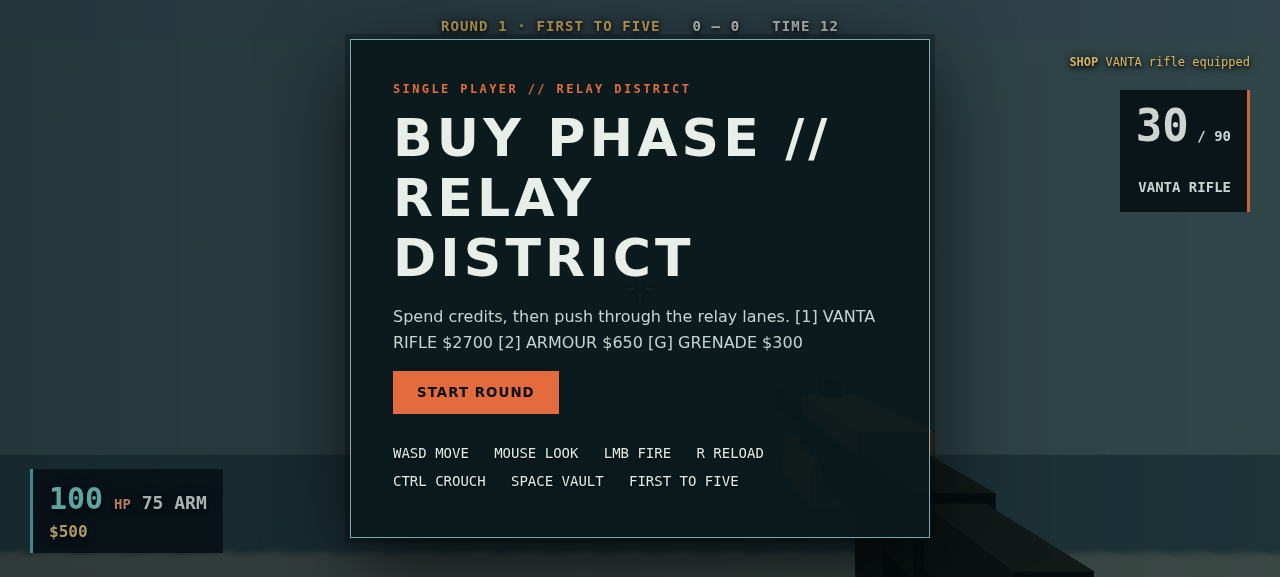
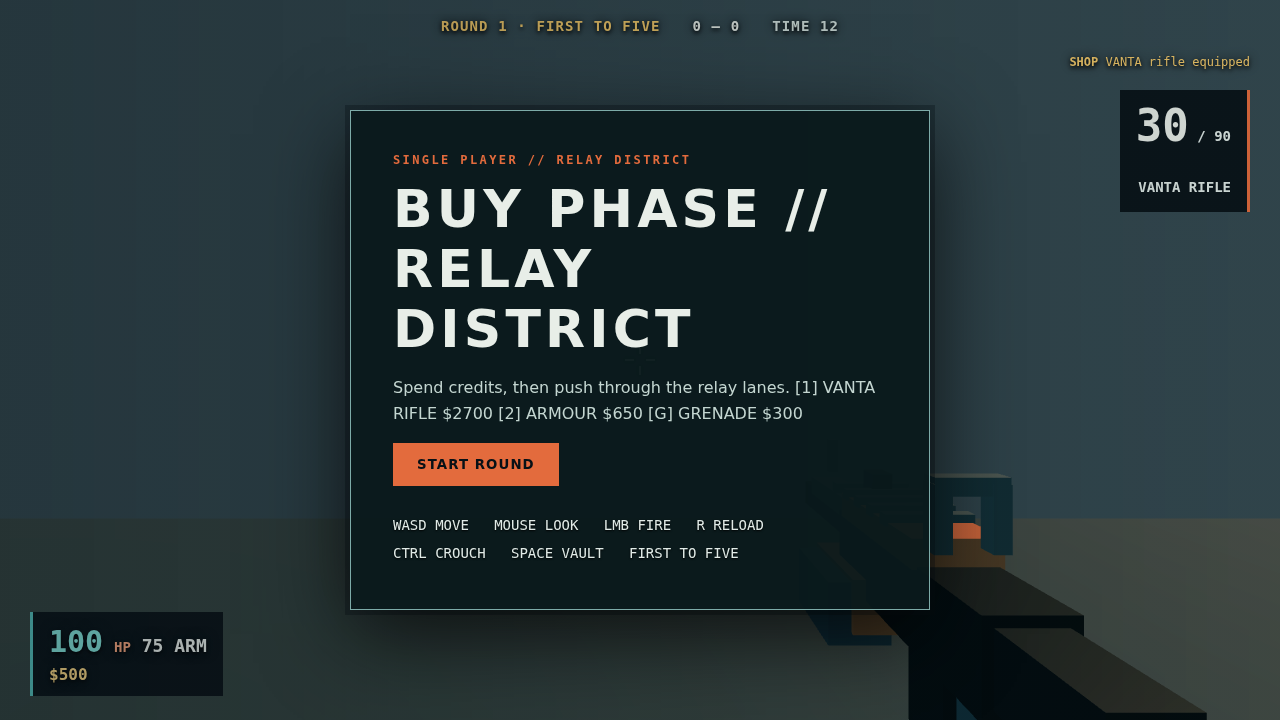
Rebuild EMBERLINE combat composition and submission screenshots
Open the relay lane, stage deterministic combat feedback, improve rival silhouettes and rifle detail, and lead the dossier with gameplay.

diff --git a/game/src/main.js b/game/src/main.js
@@ -13,13 +13,13 @@ import {createAudio} from './audio.js';
 const params=new URLSearchParams(location.search),shot=params.get('shot'),seed=Number(params.get('seed')||1);
 let rng=seed>>>0;const random=()=>{rng=(rng*1664525+1013904223)>>>0;return rng/4294967296;};
 const renderer=new THREE.WebGLRenderer({antialias:true});renderer.setPixelRatio(Math.min(devicePixelRatio,2));renderer.setSize(innerWidth,innerHeight);renderer.shadowMap.enabled=true;document.getElementById('game').appendChild(renderer.domElement);
-const scene=new THREE.Scene();scene.background=new THREE.Color(PALETTE.void);scene.fog=new THREE.Fog(PALETTE.void,18,40);
+const scene=new THREE.Scene();scene.background=new THREE.Color(PALETTE.void);scene.fog=new THREE.Fog(PALETTE.void,25,60);renderer.shadowMap.type=THREE.PCFSoftShadowMap;
 const camera=new THREE.PerspectiveCamera(72,innerWidth/innerHeight,.05,100);scene.add(camera);
 const world=createWorld(scene),nav=createNav(),player=createPlayer(world.colliders),weapon=createWeapon(camera),input=createInput(renderer.domElement),hud=createHud(),rounds=createRounds(),audio=createAudio(),bots=createBots(scene,nav,world.shootables,random),ray=new THREE.Raycaster();
 let feed='',running=false,manualFrame=false,last=performance.now();
 function aim(){
  if(rounds.state.phase==='menu'){
-  camera.position.set(9,9,16);camera.lookAt(-1,0,-3);
+  camera.position.set(10,8,18);camera.lookAt(0,1,-4);
   return;
  }
  camera.position.set(player.state.position.x,player.state.position.y+player.state.eye,player.state.position.z);camera.rotation.set(player.state.pitch,player.state.yaw,0,'YXZ');
@@ -29,7 +29,15 @@ function endRound(team){rounds.win(team);running=false;input.state.firing=false;
 function buyShop(){if(rounds.state.phase==='buy'&&rounds.buy(2700)){weapon.state.capacity=30;weapon.state.mag=30;weapon.state.reserve=90;feed='<b>SHOP</b> VANTA rifle equipped';}}
 function start(){audio.boot();running=true;manualFrame=false;rounds.start();bots.reset();weapon.reset();player.state.hp=100;player.state.position.set(0,0,8);hud.hide();input.lock();}
 hud.onPlay(()=>{if(rounds.state.phase==='win'){rounds.next();hud.overlay('buy','BUY PHASE','Spend credits before the next push. Press 1 for rifle or 2 for armor.');return;}if(rounds.state.phase==='buy')start();else start();});
-function setupShot(name){if(name==='start'){rounds.state.phase='menu';rounds.state.time=12;hud.overlay('start','EMBERLINE','A round based tactical FPS. Attack the relay, win the economy, own the lanes.');}else if(name==='buy'){rounds.state.phase='buy';rounds.state.time=12;hud.overlay('buy','BUY PHASE // RELAY DISTRICT','Spend credits, then push through the relay lanes.  [1] VANTA RIFLE $2700   [2] ARMOUR $650   [G] GRENADE $300');buyShop();}else{rounds.start();running=true;player.state.position.set(0,0,7);player.state.yaw=0;bots.list.forEach((b,i)=>{b.hp=100;b.alive=true;b.group.visible=true;b.group.position.set([-8,-3,3,8][i],0,[-7,-5,-5,-7][i]);});if(name==='play'){feed='<b>EMBER</b> ready  •  <span>4 RIVALS</span>  •  OBJECTIVE: SECURE RELAY';hud.hide();}if(name==='roundwin'){bots.list.slice(1).forEach(b=>{b.alive=false;b.group.visible=false;});feed='<b>EMBER</b> eliminated RIVAL 2  •  <b>ROUND WIN</b>';rounds.win(0);hud.overlay('win','ROUND WIN','Relay secured. Your squad owns the lane.');}}aim();hud.set({hp:player.state.hp,armor:player.state.armor,mag:weapon.state.mag,reserve:weapon.state.reserve,money:rounds.state.money,time:rounds.state.time,round:rounds.state.round,score:rounds.state.score,feed});renderOnce();}
+function setupShot(name){if(name==='start'){rounds.state.phase='menu';rounds.state.time=12;hud.overlay('start','EMBERLINE','A round based tactical FPS. Attack the relay, win the economy, own the lanes.');}else if(name==='buy'){rounds.state.phase='buy';rounds.state.time=12;hud.overlay('buy','BUY PHASE // RELAY DISTRICT','Spend credits, then push through the relay lanes.  [1] VANTA RIFLE $2700   [2] ARMOUR $650   [G] GRENADE $300');buyShop();}else{rounds.start();running=true;player.state.position.set(0,0,7);player.state.yaw=0;bots.list.forEach((b,i)=>{b.hp=100;b.alive=true;b.group.visible=true;b.group.position.set([-8,-3,3,8][i],0,[-7,-5,-5,-7][i]);});if(name==='play'){
+ player.state.position.set(0,0,6);player.state.pitch=.018;rounds.state.time=74;weapon.state.mag=18;
+ bots.list.forEach((b,i)=>{b.group.position.set([0,1.9,-4.4,6.8][i],0,[-1,-3.2,-5.2,-7][i]);b.group.rotation.y=0;});
+ bots.list[0].hp=32;bots.list[0].health.scale.x=.32;
+ feed='<b>EMBER</b> ▸ <span>RIVAL 4</span> &nbsp; / &nbsp; VANTA';bots.list[3].alive=false;bots.list[3].group.visible=false;hud.hide();document.getElementById('hit').classList.add('on');
+ aim();camera.updateMatrixWorld(true);const muzzle=weapon.flash.getWorldPosition(new THREE.Vector3()),impact=new THREE.Vector3(0,1.73,-.75);
+ const tracer=new THREE.Mesh(new THREE.CylinderGeometry(.012,.012,muzzle.distanceTo(impact),8),new THREE.MeshBasicMaterial({color:0xffdb86}));tracer.position.copy(muzzle).add(impact).multiplyScalar(.5);tracer.quaternion.setFromUnitVectors(new THREE.Vector3(0,1,0),impact.clone().sub(muzzle).normalize());scene.add(tracer);
+ const sparkMaterial=new THREE.LineBasicMaterial({color:0xffedb4});for(let i=0;i<9;i++){const a=i*2.399;const end=impact.clone().add(new THREE.Vector3(Math.cos(a)*.3,Math.sin(a)*.3,.15));scene.add(new THREE.Line(new THREE.BufferGeometry().setFromPoints([impact,end]),sparkMaterial));}
+}if(name==='roundwin'){bots.list.slice(1).forEach(b=>{b.alive=false;b.group.visible=false;});feed='<b>EMBER</b> eliminated RIVAL 2  •  <b>ROUND WIN</b>';rounds.win(0);hud.overlay('win','ROUND WIN','Relay secured. Your squad owns the lane.');}}aim();hud.set({hp:player.state.hp,armor:player.state.armor,mag:weapon.state.mag,reserve:weapon.state.reserve,money:rounds.state.money,time:rounds.state.time,round:rounds.state.round,score:rounds.state.score,feed});renderOnce();}
 function renderScene(){
  renderer.autoClear=false;
  camera.layers.set(0);renderer.clear();renderer.render(scene,camera);

diff --git a/game/src/world.js b/game/src/world.js
@@ -1,3 +1,26 @@
 import * as THREE from 'three';
 import {PALETTE} from './palette.js';
-export function createWorld(scene){const group=new THREE.Group();scene.add(group);const colliders=[],shootables=[];const M={floor:new THREE.MeshStandardMaterial({color:PALETTE.floor,roughness:.9}),wall:new THREE.MeshStandardMaterial({color:PALETTE.wall,roughness:.8}),teal:new THREE.MeshStandardMaterial({color:PALETTE.teal,roughness:.65}),orange:new THREE.MeshStandardMaterial({color:PALETTE.orange,roughness:.65}),gold:new THREE.MeshStandardMaterial({color:PALETTE.gold,roughness:.55})};function box(w,h,d,x,y,z,m,solid=true){const o=new THREE.Mesh(new THREE.BoxGeometry(w,h,d),M[m]);o.position.set(x,y,z);o.castShadow=o.receiveShadow=true;group.add(o);if(solid)colliders.push(new THREE.Box3().setFromObject(o));shootables.push(o);return o}box(24,.3,24,0,-.15,0,'floor',false);box(24,4,.35,0,2,-12,'wall');box(24,4,.35,0,2,12,'wall');box(.35,4,24,-12,2,0,'wall');box(.35,4,24,12,2,0,'wall');box(5,1.3,1.1,-6,0.65,0,'teal');box(5,1.3,1.1,6,0.65,0,'orange');box(1.2,1.8,1.2,0,.9,-4,'gold');box(1.2,1.8,1.2,0,.9,4,'gold');box(3,.8,2,-8,.4,-6,'teal');box(3,.8,2,8,.4,-6,'orange');box(2.5,2,.5,-5,1,-8,'wall');box(2.5,2,.5,5,1,-8,'wall');const hemi=new THREE.HemisphereLight(0xc0e4ea,0x526061,2.1);hemi.layers.enable(1);scene.add(hemi);const fill=new THREE.AmbientLight(0xb9d3db,.45);fill.layers.enable(1);scene.add(fill);const sun=new THREE.DirectionalLight(0xffd6a0,2.5);sun.layers.enable(1);sun.position.set(7,14,5);sun.castShadow=true;sun.shadow.mapSize.set(1024,1024);sun.shadow.camera.left=-18;sun.shadow.camera.right=18;sun.shadow.camera.top=18;sun.shadow.camera.bottom=-18;scene.add(sun);return{colliders,shootables,group};}
+export function createWorld(scene){
+ const group=new THREE.Group();scene.add(group);const colliders=[],shootables=[];
+ const M={floor:new THREE.MeshStandardMaterial({color:0x233b40,roughness:.85}),wall:new THREE.MeshStandardMaterial({color:0x28454b,roughness:.8}),teal:new THREE.MeshStandardMaterial({color:PALETTE.teal,roughness:.65}),orange:new THREE.MeshStandardMaterial({color:PALETTE.orange,roughness:.65}),gold:new THREE.MeshStandardMaterial({color:0xb39256,metalness:.5,roughness:.45}),dark:new THREE.MeshStandardMaterial({color:0x101f29,metalness:.5}),light:new THREE.MeshBasicMaterial({color:0x86eee3}),glow:new THREE.MeshBasicMaterial({color:0xffc371})};
+ function box(w,h,d,x,y,z,m,solid=true){const o=new THREE.Mesh(new THREE.BoxGeometry(w,h,d),M[m]);o.position.set(x,y,z);o.castShadow=o.receiveShadow=true;group.add(o);if(solid)colliders.push(new THREE.Box3().setFromObject(o));shootables.push(o);return o;}
+ box(24,.3,26,0,-.15,0,'floor',false);box(24,6,.4,0,3,-12,'wall');box(.4,6,26,-12,3,0,'wall');box(.4,6,26,12,3,0,'wall');
+ // Side cover leaves an uninterrupted central engagement lane.
+ box(4,1.3,1.3,-5,.65,1,'teal');box(4,1.3,1.3,6,.65,0,'orange');box(1.4,.9,1.5,-3.8,.45,4,'gold');
+ box(3,.8,2,-8,.4,-6,'teal');box(3,.8,2,8,.4,-6,'orange');
+ for(const x of [-10,-6,6,10]){box(.45,6,.8,x,3,-11.6,'dark');box(.08,4,.06,x,3,-11.12,'light',false);}
+ for(const x of [-11.6,11.6])for(const z of [-8,-2,5]){box(.7,5,.5,x,2.5,z,'dark');box(.08,3,.12,x+(x<0?.4:-.4),2.8,z,'light',false);}
+ box(19,.45,.7,0,5.6,-8,'dark');box(16,.055,.1,0,5.32,-7.7,'light',false);
+ for(const x of [-2.8,2.8]){box(.045,.015,20,x,.015,-1,'gold',false);for(let z=-10;z<10;z+=2)box(.3,.016,.07,x,.02,z,'light',false);}
+ for(let z=-10;z<10;z+=2)box(24,.012,.025,0,.01,z,'dark',false);
+ // Relay tower, elevated and warm against the cool industrial shell.
+ box(3,.3,2.5,0,.15,-9,'dark');box(1.5,2.4,1.3,0,1.5,-9,'gold');box(.8,1.5,1.42,0,1.7,-9,'dark');
+ for(const x of [-.57,.57])box(.1,1.8,1.45,x,1.7,-9,'glow',false);
+ box(.65,.65,.65,0,3.1,-9,'glow',false);box(3.8,.15,.2,0,4.3,-11.3,'gold',false);
+ const canvas=document.createElement('canvas');canvas.width=1024;canvas.height=256;const ctx=canvas.getContext('2d');ctx.fillStyle='#10232c';ctx.fillRect(0,0,1024,256);ctx.fillStyle='#a6c9c7';ctx.font='bold 92px monospace';ctx.textAlign='center';ctx.fillText('RELAY / 07',512,110);ctx.fillStyle='#f3bd70';ctx.font='32px monospace';ctx.fillText('EMBERLINE  •  TRANSIT SECTOR',512,185);const sign=new THREE.Mesh(new THREE.PlaneGeometry(7,1.75),new THREE.MeshBasicMaterial({map:new THREE.CanvasTexture(canvas)}));sign.position.set(0,4.7,-11.75);group.add(sign);
+ const hemi=new THREE.HemisphereLight(0x9cdce9,0x283439,1.4);hemi.layers.enable(1);scene.add(hemi);
+ const sun=new THREE.DirectionalLight(0xffd6aa,3.4);sun.layers.enable(1);sun.position.set(-8,12,4);sun.castShadow=true;sun.shadow.mapSize.set(2048,2048);Object.assign(sun.shadow.camera,{left:-18,right:18,top:18,bottom:-18});sun.shadow.bias=-.001;scene.add(sun);
+ const fill=new THREE.DirectionalLight(0x64d8e9,1.2);fill.position.set(8,5,-6);fill.layers.enable(1);scene.add(fill);
+ const relayLight=new THREE.PointLight(0xff9a3e,35,9,2);relayLight.position.set(0,3,-8);scene.add(relayLight);
+ return{colliders,shootables,group};
+}

diff --git a/game/src/bots.js b/game/src/bots.js
@@ -1,2 +1,18 @@
 import * as THREE from 'three';
-export function createBots(scene,nav,shootables,random){const list=[];const bodyMat=new THREE.MeshStandardMaterial({color:0x48d6d0,emissive:0x167c80,emissiveIntensity:.5,roughness:.55}),headMat=new THREE.MeshStandardMaterial({color:0xffad68,emissive:0xc65c22,emissiveIntensity:.35}),rimMat=new THREE.MeshBasicMaterial({color:0xc4fff3,side:THREE.BackSide});for(let i=0;i<4;i++){const g=new THREE.Group(),body=new THREE.Mesh(new THREE.CapsuleGeometry(.34,.8,4,8),bodyMat),head=new THREE.Mesh(new THREE.SphereGeometry(.23,12,8),headMat);body.position.y=1;head.position.y=1.7;g.add(body,head);for(const mesh of [body,head]){const rim=new THREE.Mesh(mesh.geometry,rimMat);rim.position.copy(mesh.position);rim.scale.set(1.09,1.045,1.09);g.add(rim);}g.position.set([-8,-3,3,8][i],0,[-7,-5,-5,-7][i]);scene.add(g);const bot={group:g,body,head,hp:100,alive:true,node:nav.nearest(g.position),think:0,fire:1+i*.4};body.userData.bot=head.userData.bot=bot;list.push(bot);}function reset(){list.forEach((b,i)=>{b.hp=100;b.alive=true;b.group.visible=true;b.group.position.set([-8,-3,3,8][i],0,[-7,-5,-5,-7][i]);});}function step(dt,player,fire){for(const b of list){if(!b.alive)continue;b.think-=dt;const d=b.group.position.distanceTo(player.position);if(b.think<=0){b.think=.35+random()*.7;if(d>7){const goal=nav.nodes[(b.node+1+Math.floor(random()*3))%nav.nodes.length];b.group.position.lerp(goal,.14);}else b.group.lookAt(player.position.x,1.1,player.position.z);if(d<20&&random()<.45)fire(b);}b.group.rotation.y=Math.atan2(player.position.x-b.group.position.x,player.position.z-b.group.position.z);} }return{list,reset,step};}
+export function createBots(scene,nav,shootables,random){
+ const list=[],armor=new THREE.MeshStandardMaterial({color:0xe84058,emissive:0x6e102c,emissiveIntensity:.35,metalness:.35,roughness:.45}),dark=new THREE.MeshStandardMaterial({color:0x162439}),rimMat=new THREE.MeshBasicMaterial({color:0xffb8cc,side:THREE.BackSide}),visor=new THREE.MeshBasicMaterial({color:0x9dffff});
+ for(let i=0;i<4;i++){
+  const g=new THREE.Group();
+  function part(w,h,d,x,y,z,m=armor,rim=false){const mesh=new THREE.Mesh(new THREE.BoxGeometry(w,h,d),m);mesh.position.set(x,y,z);mesh.castShadow=true;g.add(mesh);if(rim){const edge=new THREE.Mesh(mesh.geometry,rimMat);edge.position.copy(mesh.position);edge.scale.set(1.06,1.04,1.08);g.add(edge);}return mesh;}
+  const body=part(.64,.78,.38,0,1.2,0,armor,true),head=part(.4,.4,.38,0,1.85,0,armor,true);
+  part(.32,.11,.02,0,1.88,.2,visor);part(.4,.16,.04,0,1.35,.21,dark);
+  for(const side of [-1,1]){part(.24,.7,.28,side*.2,.47,0,dark);part(.25,.25,.31,side*.2,.67,.035,armor,true);part(.29,.16,.48,side*.2,.1,.09,dark);part(.25,.35,.34,side*.46,1.43,0,armor,true);part(.19,.4,.25,side*.42,1.1,.17,dark);}
+  part(.13,.16,.9,.17,1.19,.42,dark);part(.04,.04,.3,.17,1.3,.63,visor);
+  part(.66,.065,.035,0,2.27,0,dark);const health=part(.6,.045,.045,0,2.28,.025,visor);
+  g.scale.setScalar(1.2);g.position.set([-8,-3,3,8][i],0,[-7,-5,-5,-7][i]);scene.add(g);
+  const bot={group:g,body,head,health,hp:100,alive:true,node:nav.nearest(g.position),think:0,fire:1+i*.4};body.userData.bot=head.userData.bot=bot;list.push(bot);
+ }
+ function reset(){list.forEach((b,i)=>{b.hp=100;b.alive=true;b.group.visible=true;b.group.position.set([-8,-3,3,8][i],0,[-7,-5,-5,-7][i]);});}
+ function step(dt,player,fire){for(const b of list){if(!b.alive)continue;b.health.scale.x=Math.max(0,b.hp/100);b.think-=dt;const d=b.group.position.distanceTo(player.position);if(b.think<=0){b.think=.35+random()*.7;if(d>7){const goal=nav.nodes[(b.node+1+Math.floor(random()*3))%nav.nodes.length];b.group.position.lerp(goal,.14);}if(d<20&&random()<.45)fire(b);}b.group.rotation.y=Math.atan2(player.position.x-b.group.position.x,player.position.z-b.group.position.z);}}
+ return{list,reset,step};
+}

diff --git a/game/src/weapon.js b/game/src/weapon.js
@@ -3,8 +3,12 @@ export function createWeapon(camera){
  const g=new THREE.Group(),dark=new THREE.MeshStandardMaterial({color:0x263538,metalness:.7,roughness:.3}),warm=new THREE.MeshStandardMaterial({color:0xe36b3d});
  function part(w,h,d,x,y,z,m=dark){const o=new THREE.Mesh(new THREE.BoxGeometry(w,h,d),m);o.position.set(x,y,z);g.add(o);}
  part(.16,.17,.55,0,0,0);part(.075,.075,.45,0,.025,-.45);part(.09,.23,.12,0,-.16,.06);part(.18,.06,.33,0,.11,-.07,warm);part(.05,.07,.05,0,.16,-.23);part(.12,.13,.22,0,0,.35);part(.14,.13,.24,-.04,-.1,-.24,warm);
- // The cone base meets the barrel tip at z=-.675; its point faces forward.
- const flash=new THREE.Mesh(new THREE.ConeGeometry(.055,.18,8),new THREE.MeshBasicMaterial({color:0xffd77c}));flash.rotation.x=-Math.PI/2;flash.position.set(0,.025,-.765);g.add(flash);flash.visible=false;
+ const steel=new THREE.MeshStandardMaterial({color:0x9bb9c3,metalness:.8,roughness:.25}),glove=new THREE.MeshStandardMaterial({color:0x354955,roughness:.9});
+ part(.09,.055,.42,0,.07,-.38,steel);part(.035,.13,.035,-.055,.19,.12,steel);part(.035,.13,.035,.055,.19,.12,steel);part(.14,.035,.035,0,.25,.12,steel);part(.025,.1,.025,0,.18,-.53,steel);
+ part(.15,.15,.22,-.09,-.12,-.24,glove);part(.12,.18,.12,.04,-.18,.11,glove);part(.15,.07,.16,.02,-.29,.15,warm);
+ for(let z=-.27;z<0;z+=.065)part(.19,.025,.025,0,.145,z,steel);
+ // The cone base meets the barrel tip; its point faces forward.
+ const flash=new THREE.Mesh(new THREE.ConeGeometry(.11,.32,8),new THREE.MeshBasicMaterial({color:0xffd77c}));flash.rotation.x=-Math.PI/2;flash.position.set(0,.025,-.765);g.add(flash);flash.visible=false;
  g.scale.setScalar(.62);g.position.set(.38,-.3,-.65);camera.add(g);
  // Render the view model after clearing world depth, so nearby cover cannot cut it up.
  g.traverse(o=>o.layers.set(1));
